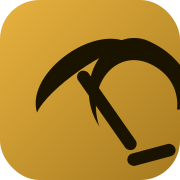
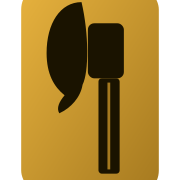
fix: アイコンを斧のみのシンプルなシルエットに変更

diff --git a/app/index.html b/app/index.html
@@ -280,17 +280,12 @@
 <body>
 <header>
   <div class="brand">
-    <div class="glyph"><svg viewBox="0 0 32 32" width="22" height="22" fill="none" xmlns="http://www.w3.org/2000/svg">
-      <g fill="#1a1300">
-        <g transform="rotate(-35 16 16) translate(-1 -6)">
-          <path d="M3 11 C 6 2, 26 2, 29 11 C 24 8 8 8 3 11 Z"/>
-          <rect x="14.6" y="9" width="2.8" height="21" rx="1.4"/>
-        </g>
-        <g transform="rotate(35 16 16) translate(1 -6) scale(-1,1) translate(-32,0)">
-          <path d="M20 4 C 30 5, 31 21, 19 26 C 27 20 26 9 17 8 C 12.5 7.5 9 9.5 7 13 L 4 10.5 C 7 5.5 13.5 3 20 4 Z"/>
-          <rect x="4.5" y="19" width="2.8" height="11" rx="1.4" transform="rotate(-40 5.9 24.5)"/>
-        </g>
-      </g>
+    <div class="glyph"><svg viewBox="0 0 100 170" width="20" height="34" fill="none" xmlns="http://www.w3.org/2000/svg">
+      <path d="M42 2 C 22 2, 9 22, 9 50 C 9 70, 16 82, 26 90 C 21 96, 18 102, 21 107 C 32 102, 41 92, 43 80 C 49 68, 49 32, 42 2 Z" fill="#1a1300"/>
+      <rect x="48" y="22" width="34" height="52" rx="6" fill="#1a1300"/>
+      <rect x="58" y="74" width="20" height="90" rx="3" fill="#1a1300"/>
+      <rect x="66.5" y="78" width="2.6" height="82" fill="#a5791f"/>
+    </svg></div>
     </svg></div>
     <div class="txt">
       <div class="eyebrow">Eorzean Gathering Guide</div>
